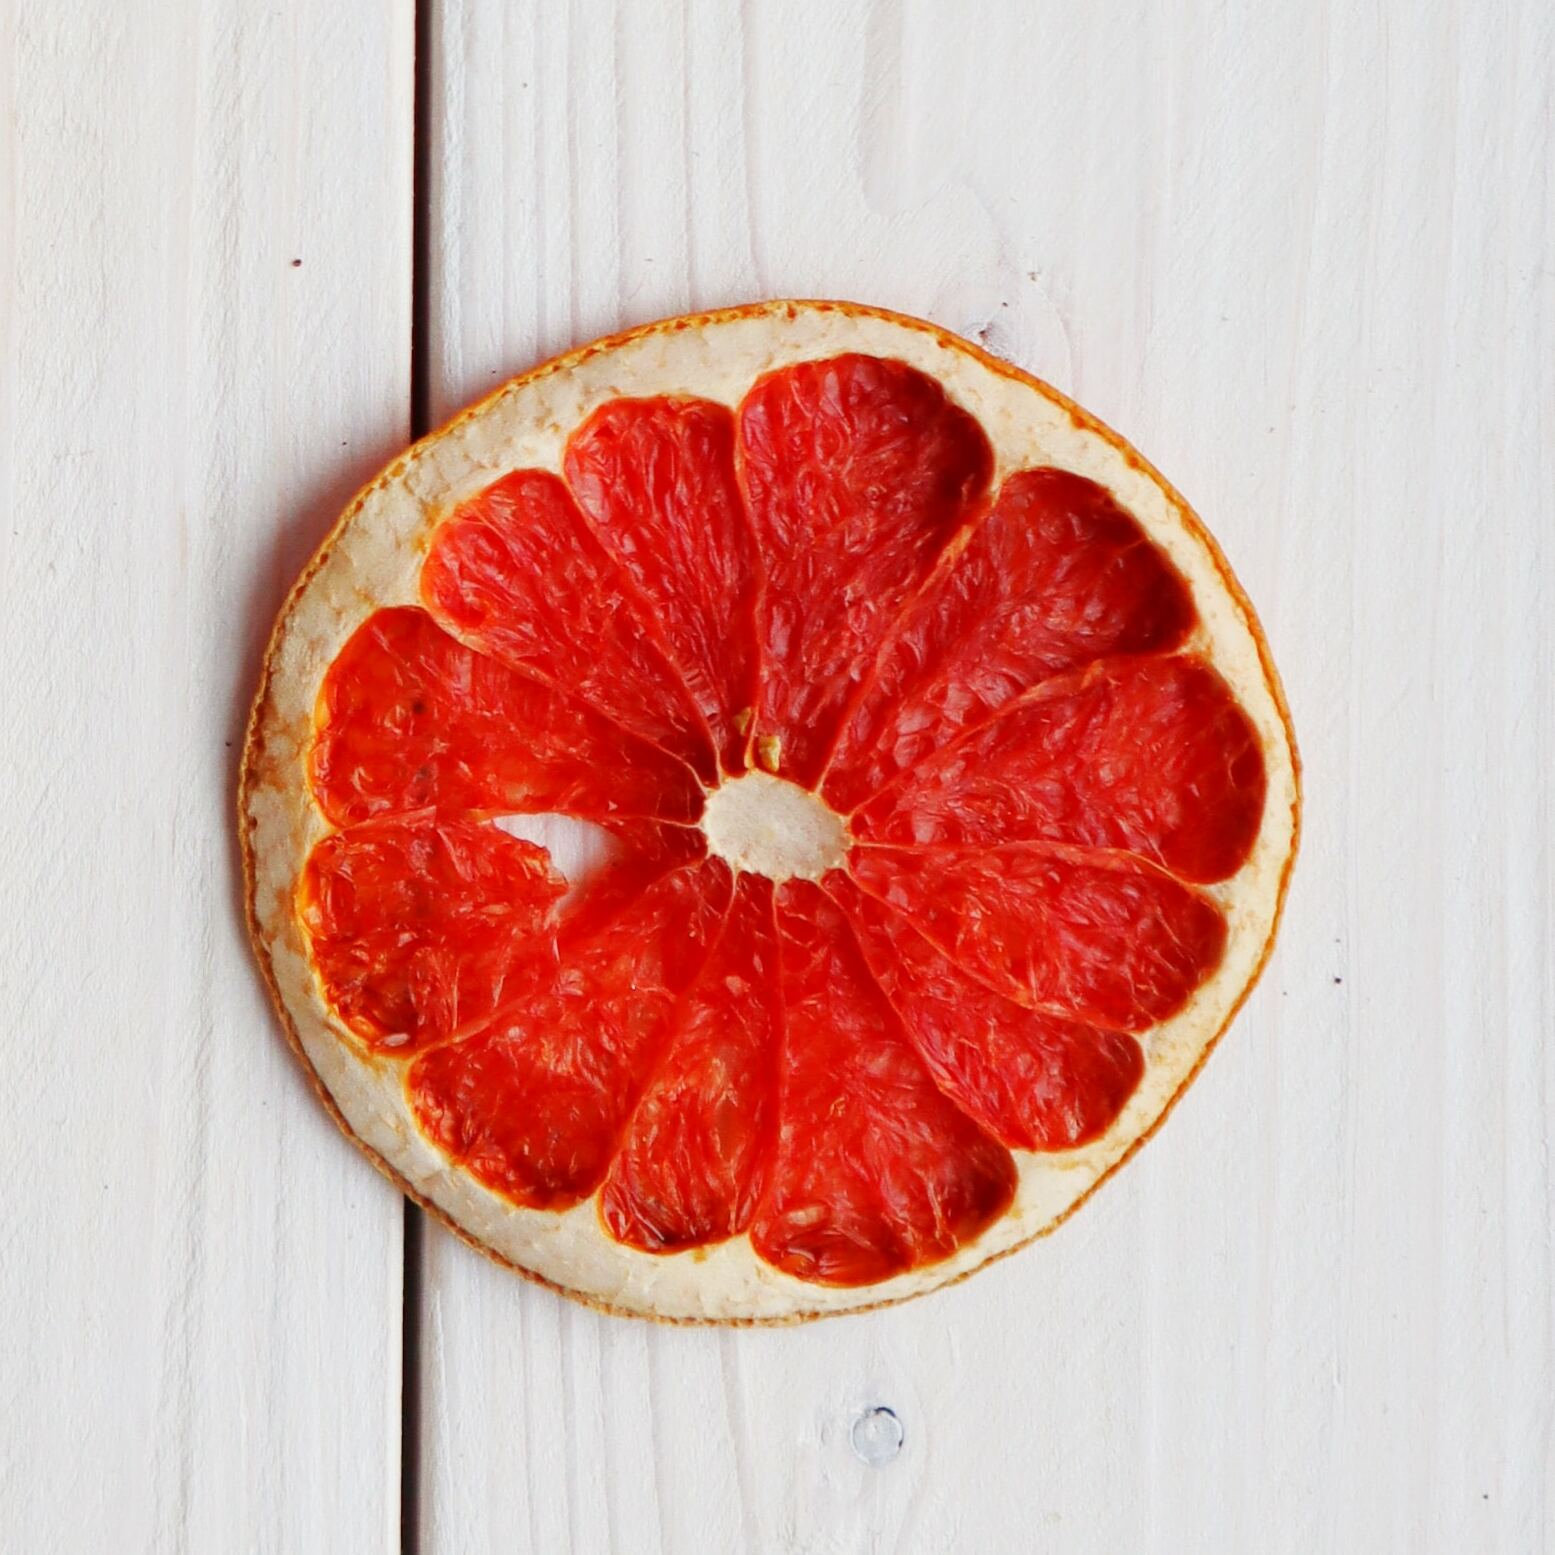
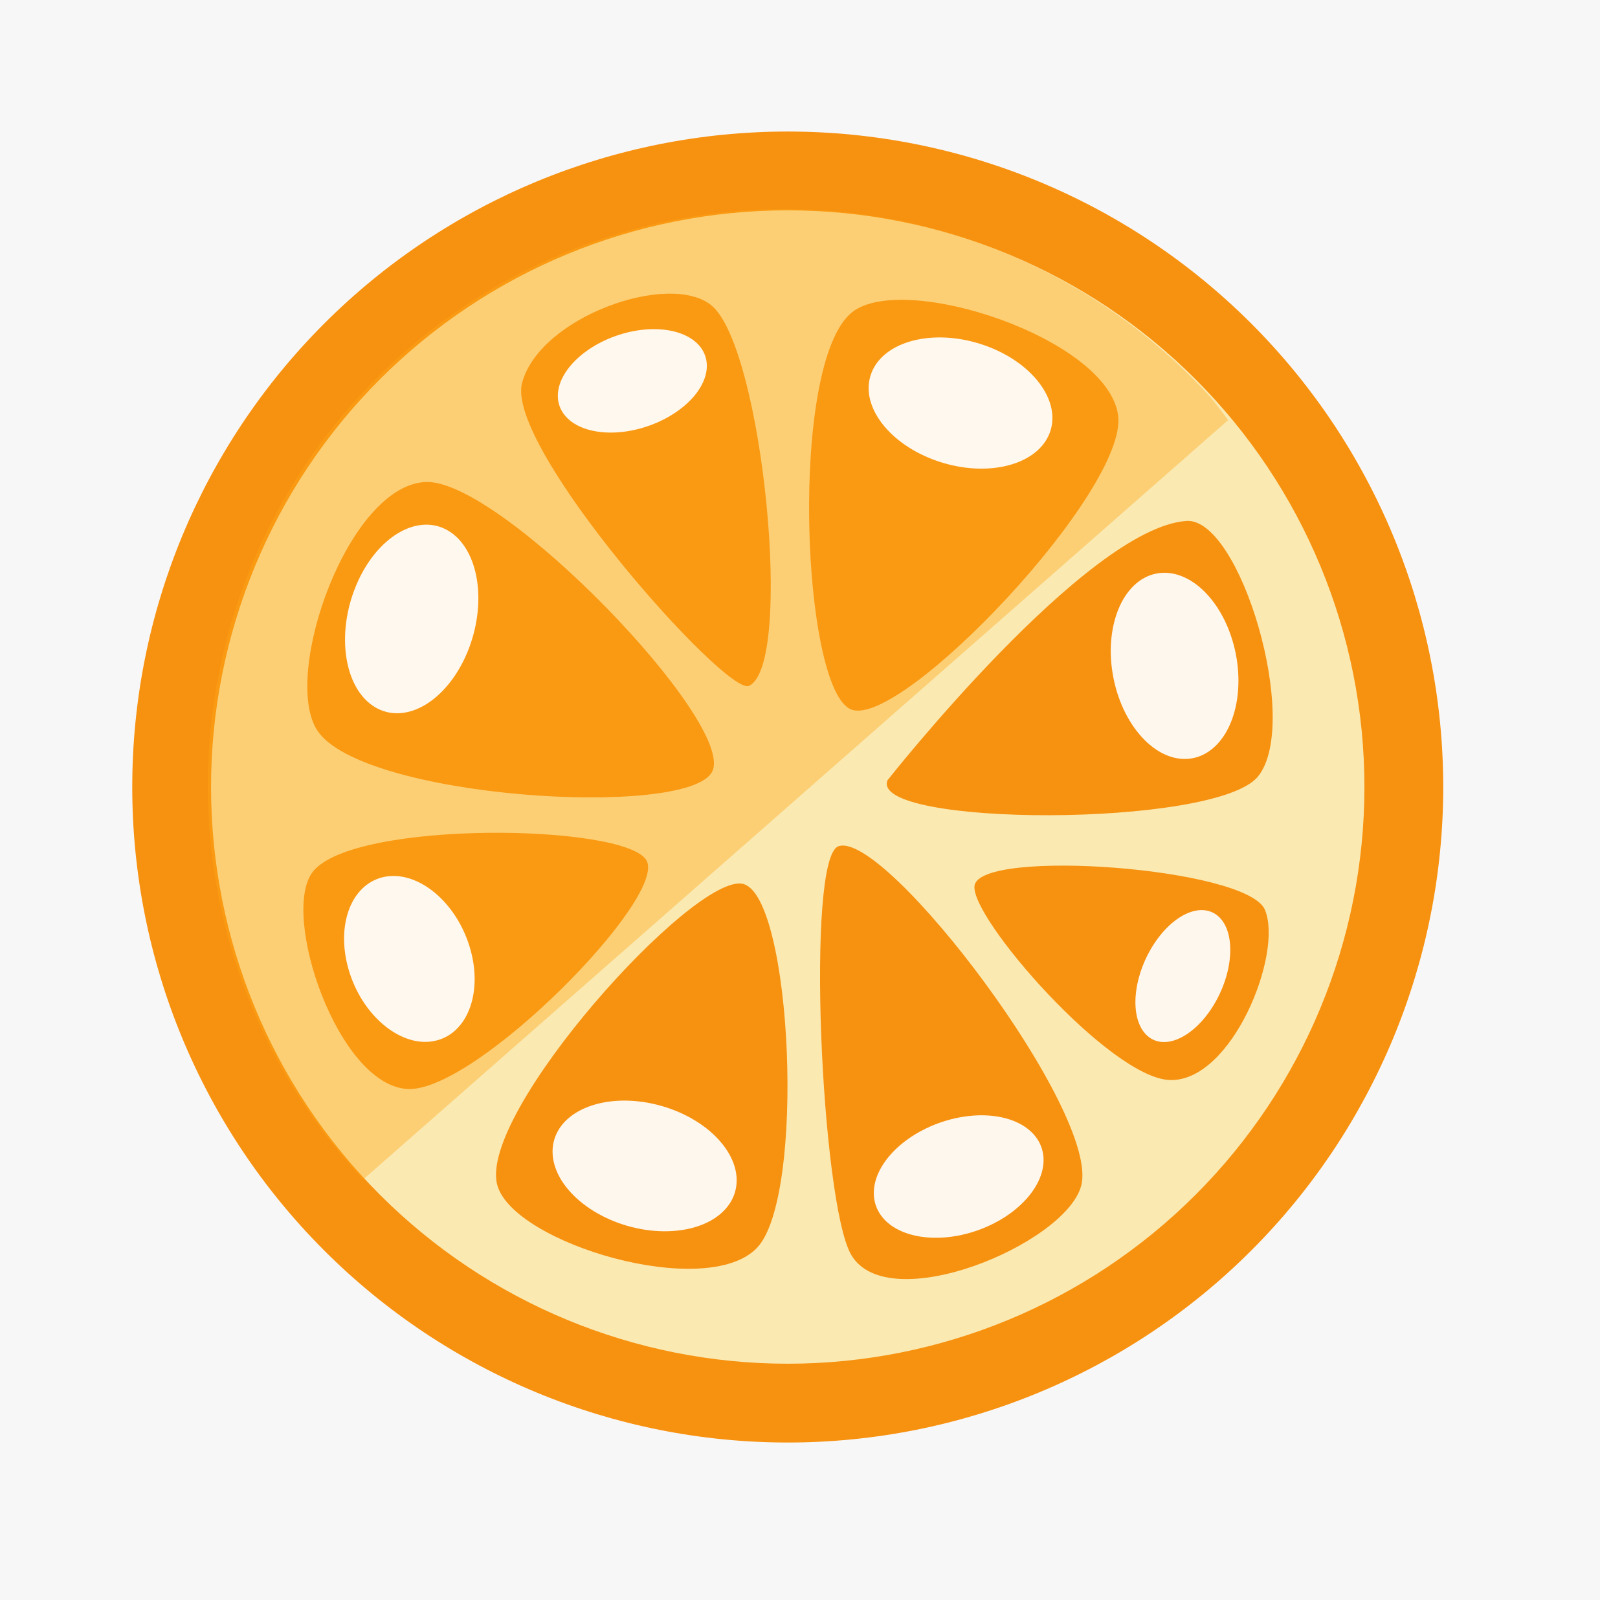
up

diff --git a/content_pages/software/index.html b/content_pages/software/index.html
@@ -407,7 +407,49 @@
       <div class="col py-2">
         <div class="card">
           <div class="card-body">
-            <h4 class="card-title exp-title text-muted mt-0 mb-1"><a href="https://github.com/clefourrier/EtymDB">EtymDB 2.0 (Etymological database autmoatically extracted from the Wiktionary)</a></h4>
+            <h4 class="card-title exp-title text-muted mt-0 mb-1"><a href="https://github.com/clefourrier/PLexGen">PLexGen</a>, a phonetic lexicon generator and sound change applier</h4>
+            <h4 class="card-title exp-company text-muted my-0"><a href="http://www.inria.fr/" target="_blank" rel="noopener">Inria - ALMAnaCH</a></h4>
+            <div class="text-muted exp-meta">
+              2020, Jan –
+              
+                2020, Feb
+              
+              
+                <span class="middot-divider"></span>
+                <span>Paris</span>
+              
+            </div>
+            <div class="card-text"><p><img src="/img/dev_icons/python.png" align="left" height="35" width="35" ></p>
+<p><br />
+If you want to try conlanging, you can! This little software is parametrizable, with json files to provide your language shape (phonetics and phonotactics) and text files to provide your sound changes.
+It will then generate randomly a proto-language and its n daughter languages after your specifications.</p>
+<p>For a use case, see the LT4HALA 2020 publication.</p>
+</div>
+          </div>
+        </div>
+      </div>
+    </div>
+    
+    <div class="row experience">
+      
+      <div class="col-auto text-center flex-column d-none d-sm-flex">
+        <div class="row h-50">
+          <div class="col border-right">&nbsp;</div>
+          <div class="col">&nbsp;</div>
+        </div>
+        <div class="m-2">
+          <span class="badge badge-pill border ">&nbsp;</span>
+        </div>
+        <div class="row h-50">
+          <div class="col border-right">&nbsp;</div>
+          <div class="col">&nbsp;</div>
+        </div>
+      </div>
+      
+      <div class="col py-2">
+        <div class="card">
+          <div class="card-body">
+            <h4 class="card-title exp-title text-muted mt-0 mb-1"><a href="https://github.com/clefourrier/EtymDB">EtymDB 2.0</a>, an automatically extracted etymological database</h4>
             <h4 class="card-title exp-company text-muted my-0"><a href="http://www.inria.fr/" target="_blank" rel="noopener">Inria - ALMAnaCH</a></h4>
             <div class="text-muted exp-meta">
               2019, Nov –
@@ -422,12 +464,10 @@
             <div class="card-text"><p><img src="/img/dev_icons/perl.svg" align="left" height="35" width="35" >
 <img src="/img/dev_icons/wiktionary.png" align="left" height="35" width="35" ></p>
 <p><br />
-I updated EtymDB:</p>
-<ul>
-<li>Updated the Perl scripts to manage duplicates</li>
-<li>Used the 2019 version of the Wiktiionary.</li>
-</ul>
-<p>For more info, see Publications</p>
+<br />
+This fine grained etymological database is extracted from a 2019 Wiktionary dump. It differentiates between inheritance, cogancy, borrowing, and different types of composition. It is provided with several scripts for data analysis, including one to draw your own language trees from the word links.</p>
+<p>For more info, see the LREC 2020 Publications.</p>
+<p><em>I contributed to the extraction of the 2019 dump, duplicate management in v2 of the base, and all the extraction scripts and notebooks present in the repo - the original Perl scripts were developed by <a href="http://alpage.inria.fr/~sagot/">B. Sagot</a></em></p>
 </div>
           </div>
         </div>
@@ -470,11 +510,14 @@ I updated EtymDB:</p>
 <img src="/img/dev_icons/tensorboard.png" align="left" height="35" width="35" >
 <img src="/img/dev_icons/git.png" align="left" height="35" width="35" ></p>
 <p><br />
-I designed its architecture and coded the whole thing.</p>
+<br />
+MEDeA is a fully parametrizable software for translation experiments on small datasets. Can also be used in historical linguistics for cognate prediction.</p>
+<p>For a use case, see all my publications.</p>
+<p><em>I designed its architecture and coded the whole beast.</em></p>
 <ul>
-<li>Model: Encoder-Decoder, with siamese networks (VAE ongoing work)</li>
-<li>Options: Attention (Luong, Bahdanau), Teacher forcing, Batch and layer dropout, Loss combination (Seq2seq + siamese)</li>
-<li>Reproducibility: It is fully parametrisable with json files, and every experiment is recorded with a console, tensorboard and file logger.</li>
+<li><em>Model: Encoder-Decoder, with siamese networks (VAE ongoing work)</em></li>
+<li><em>Options: Attention (Luong, Bahdanau), Teacher forcing, Batch and layer dropout, Loss combination (Seq2seq + siamese)</em></li>
+<li><em>Reproducibility: It is fully parametrisable with json files, and every experiment is recorded with a console, tensorboard and file logger.</em></li>
 </ul>
 </div>
           </div>
@@ -517,19 +560,20 @@ I designed its architecture and coded the whole thing.</p>
 <img src="/img/dev_icons/git.png" align="left" height="35" width="35" >
 <img src="/img/dev_icons/docker.png" align="left" height="40" width="40" ></p>
 <p><br /></p>
-<p>I took care of its:</p>
+<p>LEASP is a C++ tool to estimate the group average and individual spatio-temporal trajectories of patients with neurodegenrative diseases, and its logic was coded by <a href="https://igorkoval.com/">I. Koval</a>.</p>
+<p><em>I took care of its:</em></p>
 <ul>
 <li>
-<p>Industrialisation: automated CI, full test suite, full doc (Doxygen style)</p>
+<p><em>Industrialisation: automated CI, full test suite, full doc (Doxygen style)</em></p>
 </li>
 <li>
-<p>Extension: Designed and implementated the GUI</p>
+<p><em>Extension: Designed and implementated the GUI</em></p>
 </li>
 <li>
-<p>Dissemination:</p>
+<p><em>Dissemination:</em></p>
 <ul>
-<li>Packaged LEASP in Docker for the Medical Informatic Platform</li>
-<li>Presented the team&rsquo;s work during the Human Brain Project Open Days (see the poster in publications)</li>
+<li><em>Packaged LEASP in Docker for the Medical Informatic Platform</em></li>
+<li><em>Presented the team&rsquo;s work during the Human Brain Project Open Days (see the poster in publications)</em></li>
 </ul>
 </li>
 </ul>

diff --git a/authors/admin/index.html b/authors/admin/index.html
@@ -502,7 +502,7 @@
         <h3>Interests</h3>
         <ul class="ul-interests">
           
-          <li>Interesting neural networks</li>
+          <li>Funky neural networks</li>
           
           <li>How stuff is pronounced and how machines translate</li>
           

diff --git a/index.html b/index.html
@@ -540,7 +540,7 @@
         <h3>Interests</h3>
         <ul class="ul-interests">
           
-          <li>Interesting neural networks</li>
+          <li>Funky neural networks</li>
           
           <li>How stuff is pronounced and how machines translate</li>
           
